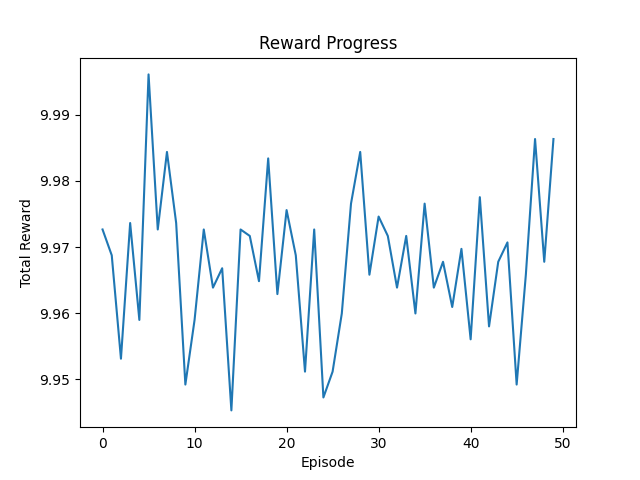
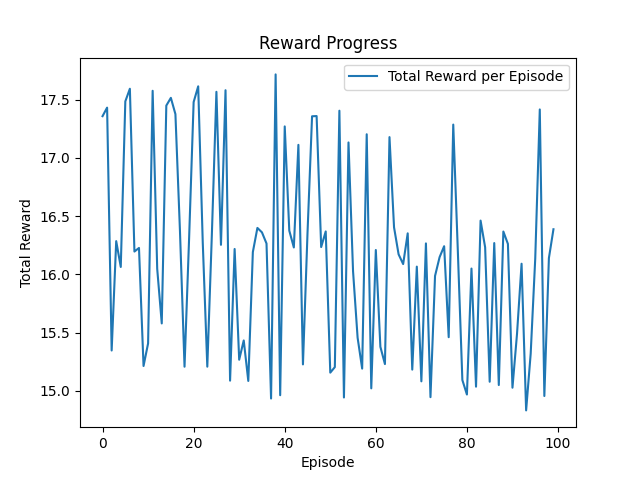
help

diff --git a/src/environment.py b/src/environment.py
@@ -1,14 +1,25 @@
 import numpy as np
 import matplotlib.pyplot as plt
 
+# OPTIONAL: If you want to draw lines easily, you can use skimage (if installed).
+# from skimage.draw import line  # or implement a simple line-drawing method below.
+
 class SymmetryEnv:
-    # Define a small discrete set of actions
-    # (2 mirror actions + 2 draw actions as an example)
+    """
+    Environment with a discrete set of actions:
+        - 2 mirror actions (flip axis=0 or axis=1)
+        - 2 single-point draw actions
+        - 1 line-drawing action
+        (Optionally remove "change_color" if not using color canvas.)
+    """
     ACTIONS = [
         {"type": "draw", "pos": (10, 10)},
-        {"type": "draw", "pos": (15, 15)},
+        {"type": "draw", "pos": (20, 20)},
         {"type": "mirror", "axis": 0},
         {"type": "mirror", "axis": 1},
+        {"type": "draw_line", "start": (5, 5), "end": (15, 15)},
+        # Remove or implement "change_color" if you are not handling color:
+        # {"type": "change_color", "color": (255, 0, 0)},
     ]
 
     def __init__(self, size=32):
@@ -16,32 +27,86 @@ class SymmetryEnv:
         self.canvas = np.zeros((self.size, self.size), dtype=int)
 
     def reset(self):
+        """Reset the canvas to all zeros."""
         self.canvas = np.zeros((self.size, self.size), dtype=int)
         return self.canvas
 
     def step(self, action):
-        """Expects action to be a dict with 'type' and additional keys."""
+        """
+        Execute the given action on the canvas.
+        Return: (next_state, reward, done)
+        """
+        reward = 0.0
+
         if action["type"] == "draw":
             x, y = action["pos"]
             if 0 <= x < self.size and 0 <= y < self.size:
+                # Reward for drawing on an empty pixel
+                if self.canvas[x, y] == 0:
+                    reward += 0.1
                 self.canvas[x, y] = 1
+
         elif action["type"] == "mirror":
-            # Flip along the specified axis
+            # Flip along the specified axis (0 => vertical flip, 1 => horizontal flip)
             self.canvas = np.flip(self.canvas, axis=action["axis"])
 
-        reward = self.compute_reward()
-        done = False  # Or define your own end condition
+        elif action["type"] == "draw_line":
+            x1, y1 = action["start"]
+            x2, y2 = action["end"]
+            # Simple naive line-drawing approach (only handles x1<=x2, y1<=y2):
+            dx = x2 - x1
+            dy = y2 - y1
+            if dx == 0 and dy == 0:
+                # Just a single point
+                if 0 <= x1 < self.size and 0 <= y1 < self.size:
+                    if self.canvas[x1, y1] == 0:
+                        reward += 0.1
+                    self.canvas[x1, y1] = 1
+            else:
+                steps = max(abs(dx), abs(dy))
+                # Avoid dividing by zero
+                if steps == 0:
+                    steps = 1
+                x_inc = dx / steps
+                y_inc = dy / steps
+                x_cur, y_cur = x1, y1
+
+                for _ in range(int(steps) + 1):
+                    ix, iy = int(round(x_cur)), int(round(y_cur))
+                    if 0 <= ix < self.size and 0 <= iy < self.size:
+                        if self.canvas[ix, iy] == 0:
+                            reward += 0.1
+                        self.canvas[ix, iy] = 1
+                    x_cur += x_inc
+                    y_cur += y_inc
+
+        # (Optional) handle change_color if you really have a color canvas
+        # elif action["type"] == "change_color":
+        #     # Not implemented in a simple 2D int canvas
+
+        # Compute combined reward: coverage + symmetry
+        coverage_reward = np.sum(self.canvas) / (self.size * self.size)
+        symmetry_reward = self._compute_symmetry_score()
+        # Weighted sum: encourage filling + symmetry
+        reward += 0.5 * coverage_reward + 0.5 * symmetry_reward
+
+        done = False  # You can define a stopping condition if you like
         return self.canvas, reward, done
 
-    def compute_reward(self):
-        """Compute how symmetric the canvas is left-to-right."""
+    def _compute_symmetry_score(self):
+        """
+        Returns how symmetric the canvas is from left to right.
+        Range: 0.0 (no symmetry) to 1.0 (perfectly symmetric).
+        """
         left = self.canvas[:, : self.size // 2]
         right = np.flip(self.canvas[:, self.size // 2 :], axis=1)
-        symmetry_score = np.sum(left == right) / self.canvas.size
-        return symmetry_score
+        return np.sum(left == right) / self.canvas.size
 
     def render(self, title="Canvas State", filename=None):
-        plt.figure(figsize=(6, 6))
+        """
+        Render the current canvas. For large canvases, increase figsize.
+        """
+        plt.figure(figsize=(10, 10))
         plt.imshow(self.canvas, cmap="Greys", interpolation="nearest")
         plt.title(title)
         plt.axis("off")

diff --git a/src/agent.py b/src/agent.py
@@ -1,23 +1,36 @@
 import numpy as np
 
 class QLearningAgent:
-    def __init__(self, state_size, action_size, alpha=0.1, gamma=0.9, epsilon=1.0, epsilon_decay=0.99):
+    def __init__(
+        self, 
+        state_size, 
+        action_size, 
+        alpha=0.05, 
+        gamma=0.9, 
+        epsilon=1.0, 
+        epsilon_decay=0.995
+    ):
         self.state_size = state_size
         self.action_size = action_size
-        self.alpha = alpha
-        self.gamma = gamma
-        self.epsilon = epsilon
+        self.alpha = alpha        # Learning rate
+        self.gamma = gamma        # Discount factor
+        self.epsilon = epsilon    # Exploration rate
         self.epsilon_decay = epsilon_decay
         self.q_table = {}
 
     def get_action(self, state):
-        """Epsilon-greedy strategy."""
+        """
+        Epsilon-greedy strategy:
+        - With probability epsilon, explore (random action).
+        - Otherwise, exploit (choose action with max Q-value).
+        """
         state_key = self._state_to_key(state)
         if np.random.rand() < self.epsilon:
-            return np.random.randint(self.action_size)  # Explore
-        return np.argmax(self.q_table.get(state_key, np.zeros(self.action_size)))  # Exploit
+            return np.random.randint(self.action_size)
+        return np.argmax(self.q_table.get(state_key, np.zeros(self.action_size)))
 
     def update_q_value(self, state, action, reward, next_state):
+        """Update Q(s,a) using the Q-learning update rule."""
         state_key = self._state_to_key(state)
         next_state_key = self._state_to_key(next_state)
 
@@ -27,14 +40,18 @@ class QLearningAgent:
             self.q_table[next_state_key] = np.zeros(self.action_size)
 
         best_next_action = np.max(self.q_table[next_state_key])
-        self.q_table[state_key][action] = (
-            (1 - self.alpha) * self.q_table[state_key][action]
-            + self.alpha * (reward + self.gamma * best_next_action)
-        )
+        current_q = self.q_table[state_key][action]
+
+        # Q-learning formula
+        new_q = (1 - self.alpha) * current_q + self.alpha * (reward + self.gamma * best_next_action)
+        self.q_table[state_key][action] = new_q
 
     def decay_epsilon(self):
+        """Reduce exploration over time, but don't go below 0.1."""
         self.epsilon = max(0.1, self.epsilon * self.epsilon_decay)
 
     def _state_to_key(self, state):
-        """Convert a 2D array into a hashable tuple for Q-table storage."""
+        """
+        Convert a 2D (or 3D) array into a hashable type (tuple) for dictionary storage.
+        """
         return tuple(state.flatten())

diff --git a/src/main.py b/src/main.py
@@ -9,31 +9,45 @@ from utils import create_animation
 os.makedirs("data/saved_patterns", exist_ok=True)
 
 # Initialize environment and agent
-env = SymmetryEnv(size=32)
-agent = QLearningAgent(state_size=32*32, action_size=len(SymmetryEnv.ACTIONS))
+env = SymmetryEnv(size=32)  # Larger canvas for more interesting designs
+agent = QLearningAgent(
+    state_size=32 * 32, 
+    action_size=len(SymmetryEnv.ACTIONS),
+    alpha=0.05,        # Learning rate
+    gamma=0.9,         # Discount factor
+    epsilon=1.0,       # Start fully exploring
+    epsilon_decay=0.995
+)
 
 rewards = []
-num_episodes = 50
-max_steps_per_episode = 20
+num_episodes = 100
+max_steps_per_episode = 50
 
 for episode in range(num_episodes):
     state = env.reset()
-    total_reward = 0
+    total_reward = 0.0
 
     for t in range(max_steps_per_episode):
-        action_index = agent.get_action(state)  
-        action = SymmetryEnv.ACTIONS[action_index]  # Retrieve the corresponding action dict
+        # Choose an action
+        action_index = agent.get_action(state)
+        action = SymmetryEnv.ACTIONS[action_index]
+
+        # Take the action in the environment
         next_state, reward, done = env.step(action)
 
-        # Update Q-learning
+        # Update Q-values
         agent.update_q_value(state, action_index, reward, next_state)
+
         state = next_state
         total_reward += reward
         
         if done:
             break
 
+    # Store total episode reward
     rewards.append(total_reward)
+
+    # Decay exploration rate
     agent.decay_epsilon()
 
     # Save a PNG of the environment every 10 episodes
@@ -42,10 +56,12 @@ for episode in range(num_episodes):
         env.render(title=f"Episode {episode}", filename=filename)
 
 # Plot reward progress
-plt.plot(rewards)
+plt.figure()
+plt.plot(rewards, label="Total Reward per Episode")
 plt.xlabel("Episode")
 plt.ylabel("Total Reward")
 plt.title("Reward Progress")
+plt.legend()
 plt.savefig("data/reward_progress.png")
 plt.show()
 

diff --git a/src/utils.py b/src/utils.py
@@ -2,7 +2,10 @@ import imageio
 import os
 
 def create_animation(folder_path, output_file="animation.gif"):
-    """Creates a GIF from all PNG images in `folder_path`."""
+    """
+    Creates a GIF from all PNG images in `folder_path`, sorted by
+    the numeric episode index in the filename.
+    """
     images = []
     files = sorted(
         [f for f in os.listdir(folder_path) if f.endswith(".png")],
